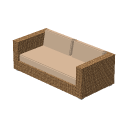
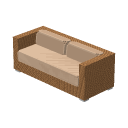
Adapt the double sofa to the reworked single sofa model and seat height

diff --git a/tests/tools/sofa.test.ts b/tests/tools/sofa.test.ts
@@ -37,14 +37,14 @@ for build in (m.build_frame, m.build_cushions, m.build_feet):
     if build is not m.build_cushions:
         assert a[0][1:] == b[0][1:] and a[1][1:] == b[1][1:]
 assert len(m.build_feet(1)) == len(m.build_feet(2)) == 4
-assert len(m.build_cushions(1)) == 6
-assert len(m.build_cushions(2)) == 9
+assert len(m.build_cushions(1)) == 12
+assert len(m.build_cushions(2)) == 18
 for width in (1, 2):
     assert not m.tilt.compound_cubes(m.cubes(width))
 assert len(m.tilt.compound_cubes(m.cubes(1, 1))) == m.ASSEMBLIES['throw_cushion']['cubes']
-seat = m.build_cushions(2)[:3]
+seat = m.build_cushions(2)[:6]
 assert m.tilt.bounds(seat)[1][0] - m.tilt.bounds(seat)[0][0] > 26
-assert len(m.build_cushions(2)[3:]) == 6
+assert len(m.build_cushions(2)[6:]) == 12
 assert m.SEAT_POSITION[1] == m.SEAT_TOP/16-0.24
 `);
   });

diff --git a/tests/packs/sofaDouble.test.ts b/tests/packs/sofaDouble.test.ts
@@ -50,8 +50,9 @@ describe("Sofa (Double) pack contract", () => {
     );
     // Vanilla riders sit about 0.24 blocks above the rideable anchor, as on the Low Chair.
     const seat = model.bones[0].cubes.find(
-      (c: { origin: number[]; size: number[] }) =>
-        c.origin[1] === 4 && Math.abs((c.size[1] ?? 0) - 2.4) < 1e-6,
+      (c: { origin: number[]; size: number[]; rotation?: number[] }) =>
+        Math.abs((c.origin[1] ?? 0) + (c.size[1] ?? 0) - 7.8) < 1e-6 &&
+        !c.rotation,
     );
     expect(seat).toBeDefined();
     for (const anchor of FURNITURE_SPEC.sofa_double.seats)

diff --git a/src/domain/resort/furniture.ts b/src/domain/resort/furniture.ts
@@ -71,8 +71,8 @@ export const FURNITURE_SPEC: Readonly<Record<FurnitureKind, FurnitureSpec>> =
       ]),
       clearance: 2,
       seats: Object.freeze([
-        Object.freeze({ x: -0.5, y: 0.16, z: -0.1 }),
-        Object.freeze({ x: 0.5, y: 0.16, z: -0.1 }),
+        Object.freeze({ x: -0.5, y: 0.2475, z: -0.1 }),
+        Object.freeze({ x: 0.5, y: 0.2475, z: -0.1 }),
       ]),
       hitsToTakeBack: 3,
       hitResetTicks: 100,

diff --git a/tests/tools/renderPreview.test.ts b/tests/tools/renderPreview.test.ts
@@ -5,7 +5,7 @@ import { describe, expect, it } from "vitest";
 type Point = [number, number, number];
 
 // Rasterizing all camping previews can exceed Vitest's 5 s default on CI.
-const CAMPING_PREVIEW_TIMEOUT_MS = 30_000;
+const CAMPING_PREVIEW_TIMEOUT_MS = 90_000;
 
 // Runs collect_boat from tools/render_preview.py on a geometry and returns the
 // center of every opaque face it draws, in the preview's mirrored frame.

diff --git a/tests/domain/resort/furniture.test.ts b/tests/domain/resort/furniture.test.ts
@@ -163,8 +163,8 @@ describe("furniture spec", () => {
       [{ x: 0, y: 0.45, z: 0.05 }],
       [{ x: 0, y: 0.2475, z: -0.1 }],
       [
-        { x: -0.5, y: 0.16, z: -0.1 },
-        { x: 0.5, y: 0.16, z: -0.1 },
+        { x: -0.5, y: 0.2475, z: -0.1 },
+        { x: 0.5, y: 0.2475, z: -0.1 },
       ],
     ];
     expect(kinds.map((kind) => FURNITURE_SPEC[kind].seats)).toEqual(seats);

diff --git a/docs/specs/resort-gear.md b/docs/specs/resort-gear.md
@@ -41,7 +41,7 @@
 ### Sofa (Double)
 
 - Applies to: `yasu_ride:sofa_double_item` and `yasu_ride:sofa_double`.
-- Rule: A 1.95 by 0.95 block amber woven box frame extends the single sofa sideways, with thick arms, a low back, a front base rail and four silver feet. One continuous beige seat pad spans the inner width, with two back pads reclined 12 degrees, with no throw cushions. The front faces model -z. The seat top is 0.4 blocks; two vanilla anchors are `(-0.5, 0.16, -0.1)` and `(0.5, 0.16, -0.1)`. Placement occupies the pressed cell and the cell to the player's right, refusing if either lacks support or clearance. Collision is 2.0 wide by 0.8 high. Two 0.95-wide, 0.8-high hitboxes are centered at x -0.5 and 0.5, y 0.4. Hits on the entity use shared three-hit recovery, refusing occupied seats. The unstackable item follows Sofa (Single) in Resort Gear. Its unique crafting-table recipe is `WWW / WWW / SPS`, with planks P, wool W and sticks S, yielding one item.
+- Rule: A 1.95 by 0.95 block amber woven box frame extends the single sofa sideways, with thick arms, a low back, a front base rail and four silver feet. One continuous beige seat pad spans the inner width, with two back pads reclined 12 degrees, with no throw cushions. The front faces model -z. The seat top is 0.4875 blocks; two vanilla anchors are `(-0.5, 0.2475, -0.1)` and `(0.5, 0.2475, -0.1)`. Placement occupies the pressed cell and the cell to the player's right, refusing if either lacks support or clearance. Collision is 2.0 wide by 0.8 high. Two 0.95-wide, 0.8-high hitboxes are centered at x -0.5 and 0.5, y 0.4. Hits on the entity use shared three-hit recovery, refusing occupied seats. The unstackable item follows Sofa (Single) in Resort Gear. Its unique crafting-table recipe is `WWW / WWW / SPS`, with planks P, wool W and sticks S, yielding one item.
 - Agreement: Proposed
 - Basis: [0240](../adr/0240-resort-furniture-family.md); [Dining set design](../designs/2026-11-09-dining-set-design.md).
 - Implementation: `tools/gen_sofa.py` emits `geometry(2)` and a separate texture with the same pixels as the single sofa. It builds cushions with `throw_cushions=0`, so the model has no throw cushion assemblies. `tools/render_preview.py` renders the textured preview and item icon. The shared furniture kind table supplies placement, seats and recovery without kind-specific handler branches.
